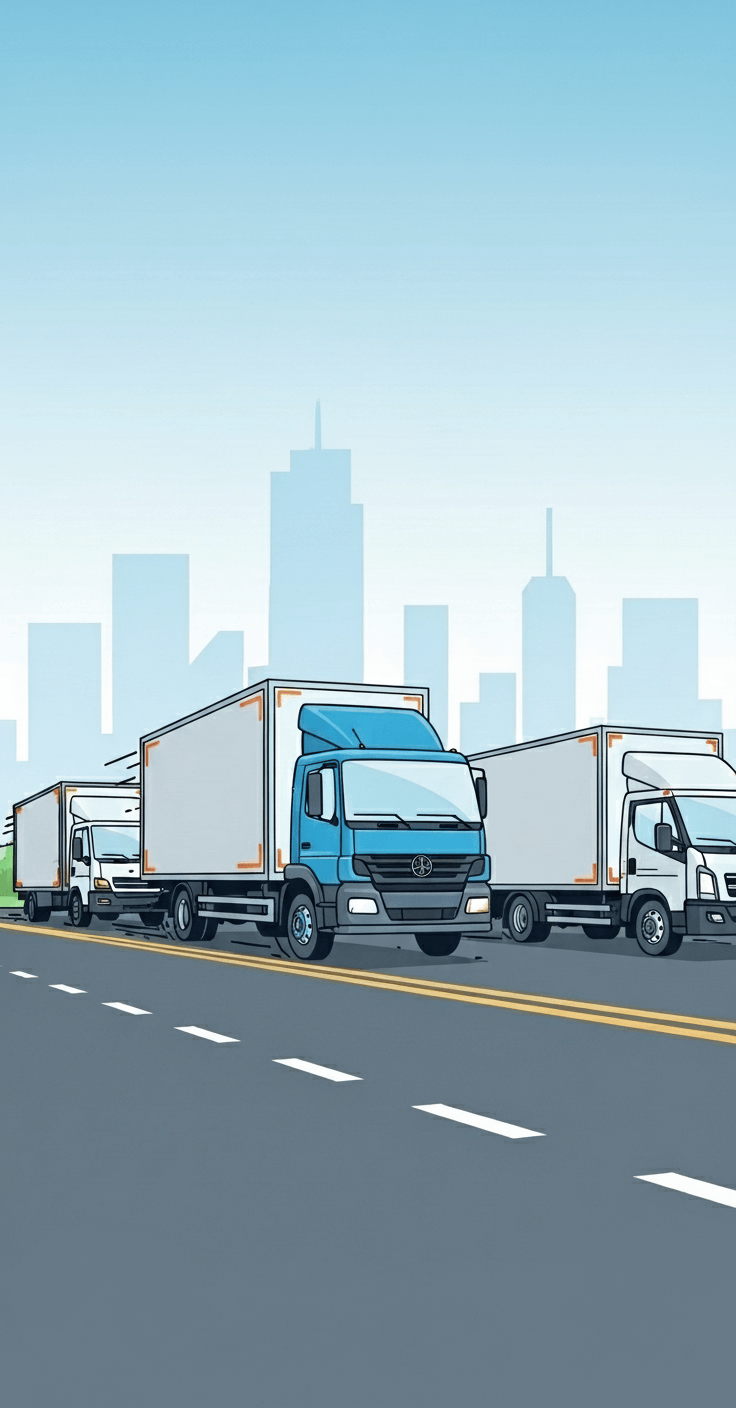
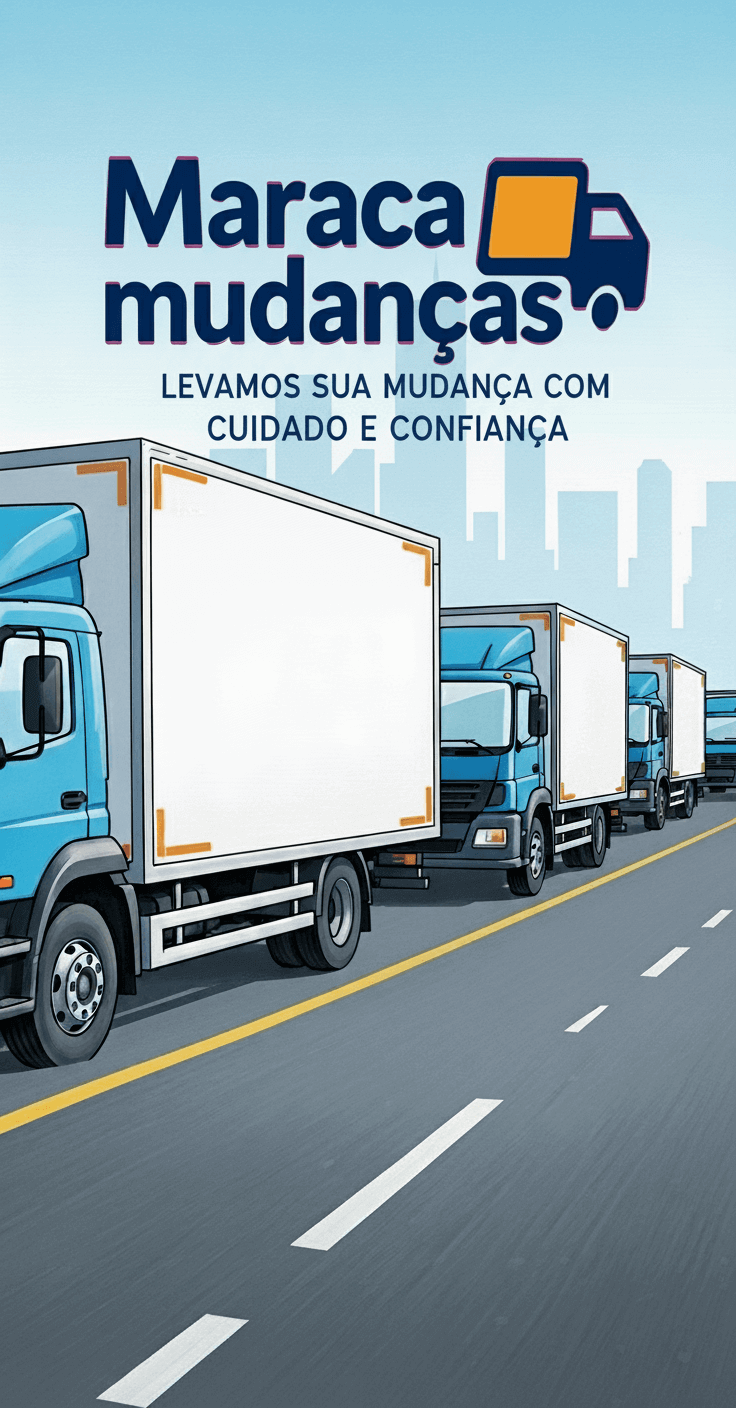
ajustes

diff --git a/index.html b/index.html
@@ -4,7 +4,66 @@
 <head>
     <meta charset="UTF-8">
     <meta name="viewport" content="width=device-width, initial-scale=1.0">
-    <title>Maraca Mudanças - Mudanças e Carreto</title>
+    <title>Maraca Mudanças | Mudanças e Carreto em São Paulo - Orçamento Grátis</title>
+    <meta name="description"
+        content="Sua mudança residencial, comercial ou carreto em São Paulo com segurança, agilidade e o melhor preço. Solicite seu orçamento grátis agora!">
+    <meta property="og:title" content="Maraca Mudanças | Mudanças e Carreto em São Paulo">
+    <meta property="og:description"
+        content="Sua mudança residencial, comercial ou carreto em São Paulo com segurança, agilidade e o melhor preço. Solicite seu orçamento grátis agora!">
+    <meta property="og:type" content="website">
+    <meta property="og:url" content="https://www.maracamudancas.com.br/">
+    <meta property="og:image" content="https://www.maracamudancas.com.br/src/assets/images/banner_image.png">
+    <meta name="twitter:card" content="summary_large_image">
+    <meta name="twitter:title" content="Maraca Mudanças | Mudanças e Carreto em São Paulo">
+    <meta name="twitter:description"
+        content="Sua mudança residencial, comercial ou carreto em São Paulo com segurança, agilidade e o melhor preço. Solicite seu orçamento grátis agora!">
+    <meta name="twitter:image" content="https://www.maracamudancas.com.br/src/assets/images/banner_image.png">
+    <script type="application/ld+json">
+    {
+        "@context": "https://schema.org",
+        "@type": "LocalBusiness",
+        "name": "Maraca Mudancas",
+        "image": "https://www.maracamudancas.com.br/src/assets/images/banner_image.png",
+        "@id": "https://www.maracamudancas.com.br/",
+        "url": "https://www.maracamudancas.com.br/",
+        "telephone": "+55-11-94501-3787",
+        "address": {
+            "@type": "PostalAddress",
+            "streetAddress": "Rua Exemplo, 123",
+            "addressLocality": "São Paulo",
+            "addressRegion": "SP",
+            "postalCode": "01000-000",
+            "addressCountry": "BR"
+        },
+        "openingHoursSpecification": [
+            {
+                "@type": "OpeningHoursSpecification",
+                "dayOfWeek": [
+                    "Monday",
+                    "Tuesday",
+                    "Wednesday",
+                    "Thursday",
+                    "Friday"
+                ],
+                "opens": "07:00",
+                "closes": "18:00"
+            },
+            {
+                "@type": "OpeningHoursSpecification",
+                "dayOfWeek": "Saturday",
+                "opens": "07:00",
+                "closes": "14:00"
+            },
+            {
+                "@type": "OpeningHoursSpecification",
+                "dayOfWeek": "Sunday",
+                "opens": "00:00",
+                "closes": "23:59"
+            }
+        ],
+        "priceRange": "R$"
+    }
+    </script>
 </head>
 
 <body>
@@ -33,8 +92,8 @@
 
     <section id="home" class="banner">
         <div class="banner-content">
-            <h1>Mudanças e Carreto</h1>
-            <p>Sua mudança com segurança, agilidade e o melhor preço da região</p>
+            <h1>Maraca Mudanças: Mudanças e Carreto em São Paulo</h1>
+            <!-- <p>Sua mudança com segurança, agilidade e o melhor preço da região</p> -->
             <a href="#quote" class="cta-button">Solicite seu Orçamento</a>
         </div>
     </section>
@@ -83,7 +142,6 @@
         </div>
     </section>
 
-    </section>
     <section id="gallery" class="gallery">
         <div class="container">
             <h2 class="section-title">Nossa Galeria de Mudanças</h2>
@@ -128,6 +186,20 @@
                         <source srcset="/src/assets/images/galeria-img-6.jpeg" type="image/jpeg">
                         <source srcset="/src/assets/images/galeria-img-6.webp" type="image/webp">
                         <img src="/src/assets/images/galeria-img-6.jpeg" alt="Equipe preparando mudança">
+                    </picture>
+                </div>
+                <div class="gallery-item">
+                    <picture>
+                        <source srcset="/src/assets/images/galeria-img-7.jpeg" type="image/jpeg">
+                        <source srcset="/src/assets/images/galeria-img-7.webp" type="image/webp">
+                        <img src="/src/assets/images/galeria-img-7.jpeg" alt="Equipe preparando mudança">
+                    </picture>
+                </div>
+                <div class="gallery-item">
+                    <picture>
+                        <source srcset="/src/assets/images/galeria-img-8.jpeg" type="image/jpeg">
+                        <source srcset="/src/assets/images/galeria-img-8.webp" type="image/webp">
+                        <img src="/src/assets/images/galeria-img-8.jpeg" alt="Equipe preparando mudança">
                     </picture>
                 </div>
             </div>
@@ -232,7 +304,7 @@
                 </div>
                 <div class="footer-section">
                     <h3>Contato</h3>
-                    <p>📞 (11) 99999-9999</p>
+                    <p>📞 (11) 94501-3787</p>
                     <p>📧 contato@expressmovers.com.br</p>
                     <p>📍 São Paulo - SP</p>
                 </div>

diff --git a/src/scss/style.scss b/src/scss/style.scss
@@ -71,10 +71,10 @@ body {
 /* Banner */
 .banner {
   margin-top: 80px;
-  height: 70vh;
+  height: 80vh;
   background: linear-gradient(135deg, #667eea 0%, #764ba2 100%);
   display: flex;
-  align-items: center;
+  align-items: flex-end;
   justify-content: center;
   text-align: center;
   color: white;
@@ -89,15 +89,15 @@ body {
   left: 0;
   right: 0;
   bottom: 0;
-  opacity: 0.5;
+  // opacity: 0.5;
   background-image: url('/src/assets/images/banner_image_mob.png');
-  background-position: center;
+  background-position: 0 -24px;
   background-repeat: no-repeat;
   background-size: cover;
 
   @media (min-width: 768px) {
-    background-image: url('/src/assets/images/banner_image_desk.png');
-    background-size: contain;
+    background-image: url('/src/assets/images/banner_image_desk.jpeg');
+    background-position: center;
   }
 }
 
@@ -105,11 +105,12 @@ body {
   position: relative;
   z-index: 2;
   max-width: 800px;
-  padding: 0 2rem;
+  padding: 0 2rem 2rem;
 }
 
 .banner h1 {
-  font-size: 3.5rem;
+  color: #2c5aa0;
+  font-size: 0;
   margin-bottom: 1rem;
   animation: fadeInUp 1s ease;
 }
@@ -356,20 +357,50 @@ body {
   display: grid;
   grid-template-columns: repeat(auto-fit, minmax(250px, 1fr));
   gap: 1.5rem;
+
+  @media (min-width: 768px) {
+    .gallery-item img:hover {
+      transform: scale(1.05);
+      box-shadow: 0 10px 25px rgba(0, 0, 0, 0.2);
+    }
+  }
+
+  @media (max-width: 767px) {
+    display: flex;
+    padding-left: 2rem;
+    padding-right: 2rem;
+    padding-top: 1rem;
+    padding-bottom: 1rem;
+    overflow-y: hidden;
+    overflow-x: scroll;
+    margin-left: -1rem;
+    margin-right: -1rem;
+    justify-content: flex-start;
+    column-gap: 1rem;
+
+    .gallery-item {
+      picture {
+        display: block;
+        height: 100%;
+        width: 100%;
+
+        img {
+          width: calc(100vw - 4rem);
+          object-fit: contain;
+          background-color: rgba(44, 90, 160, 0.6);
+        }
+      }
+    }
+  }
 }
 
 .gallery-item img {
   width: 100%;
-  height: 100%;
+  height: 98%;
   object-fit: cover;
-  border-radius: 10px;
+  border-radius: 20px;
   box-shadow: 0 5px 15px rgba(0, 0, 0, 0.1);
   transition: transform 0.3s ease, box-shadow 0.3s ease;
-}
-
-.gallery-item img:hover {
-  transform: scale(1.05);
-  box-shadow: 0 10px 25px rgba(0, 0, 0, 0.2);
 }
 
 .gallery-instagram-link {
@@ -406,7 +437,7 @@ body {
 }
 
 /* Mobile Responsive */
-@media (max-width: 768px) {
+@media (max-width: 767px) {
   .nav-menu {
     display: none;
     position: absolute;
@@ -427,9 +458,9 @@ body {
     display: flex;
   }
 
-  .banner h1 {
-    font-size: 2.5rem;
-  }
+  // .banner h1 {
+  //   font-size: 2.5rem;
+  // }
 
   .banner p {
     font-size: 1.1rem;
